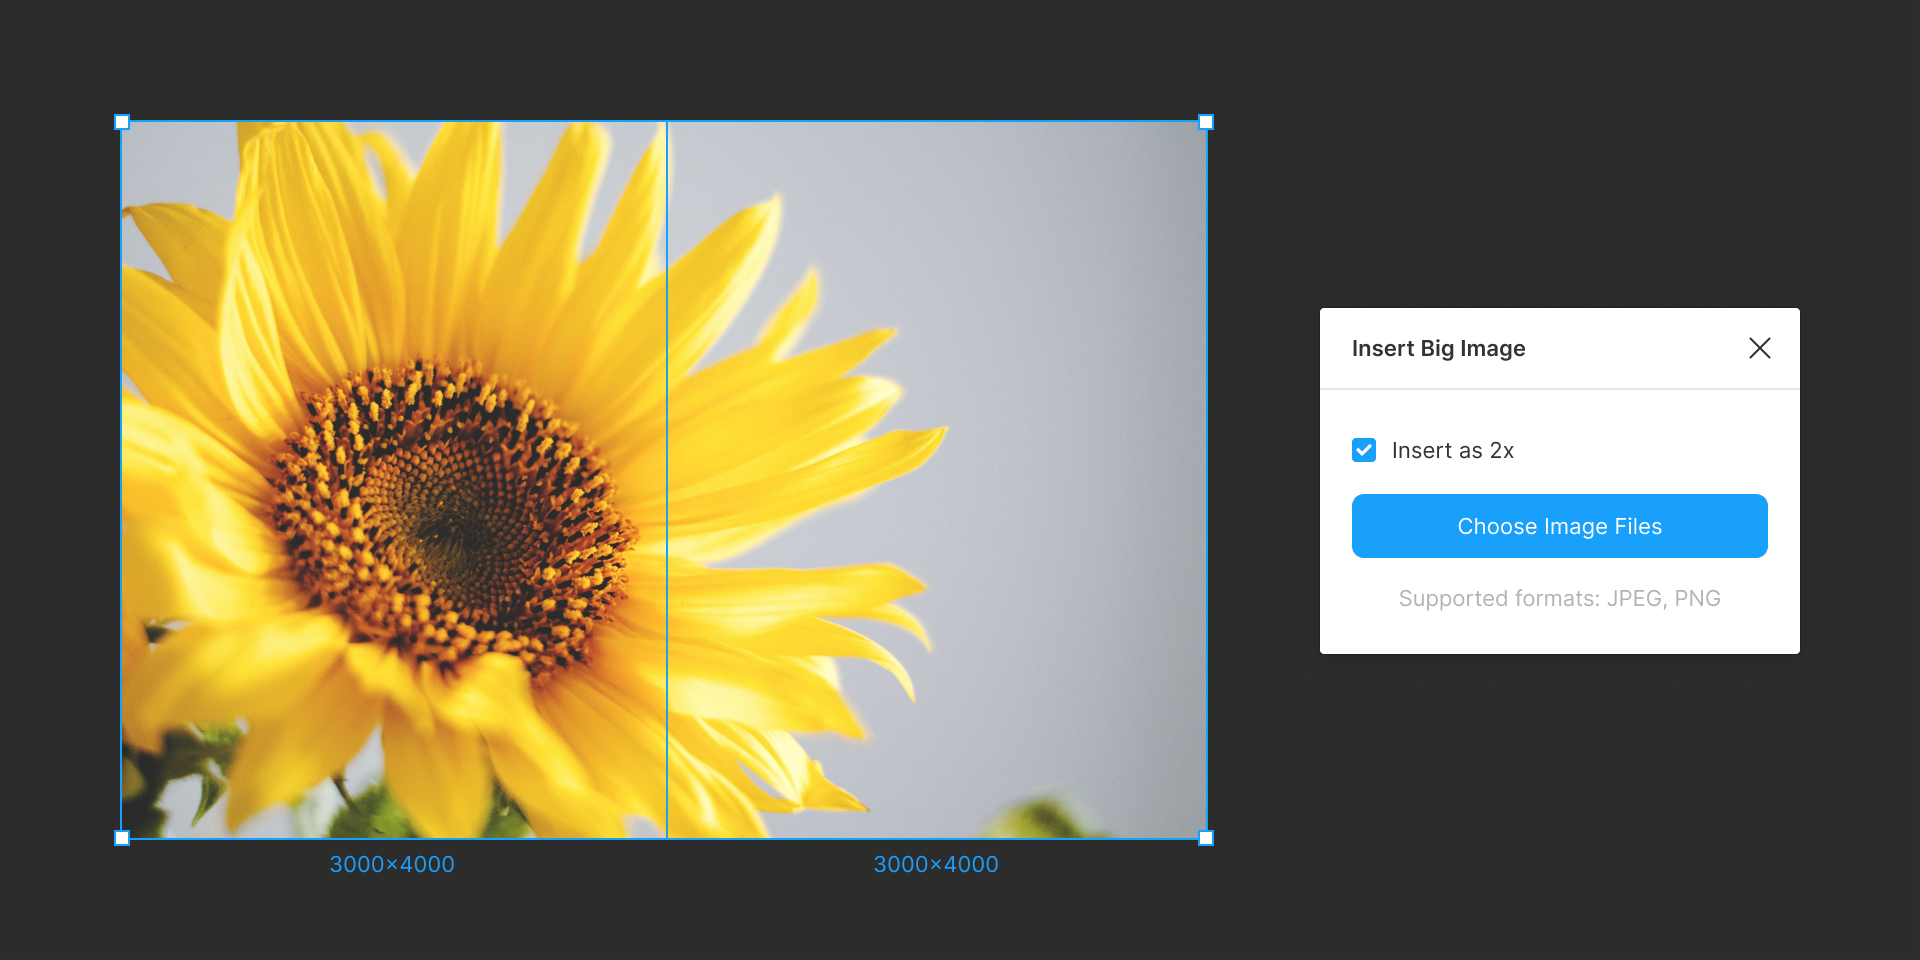
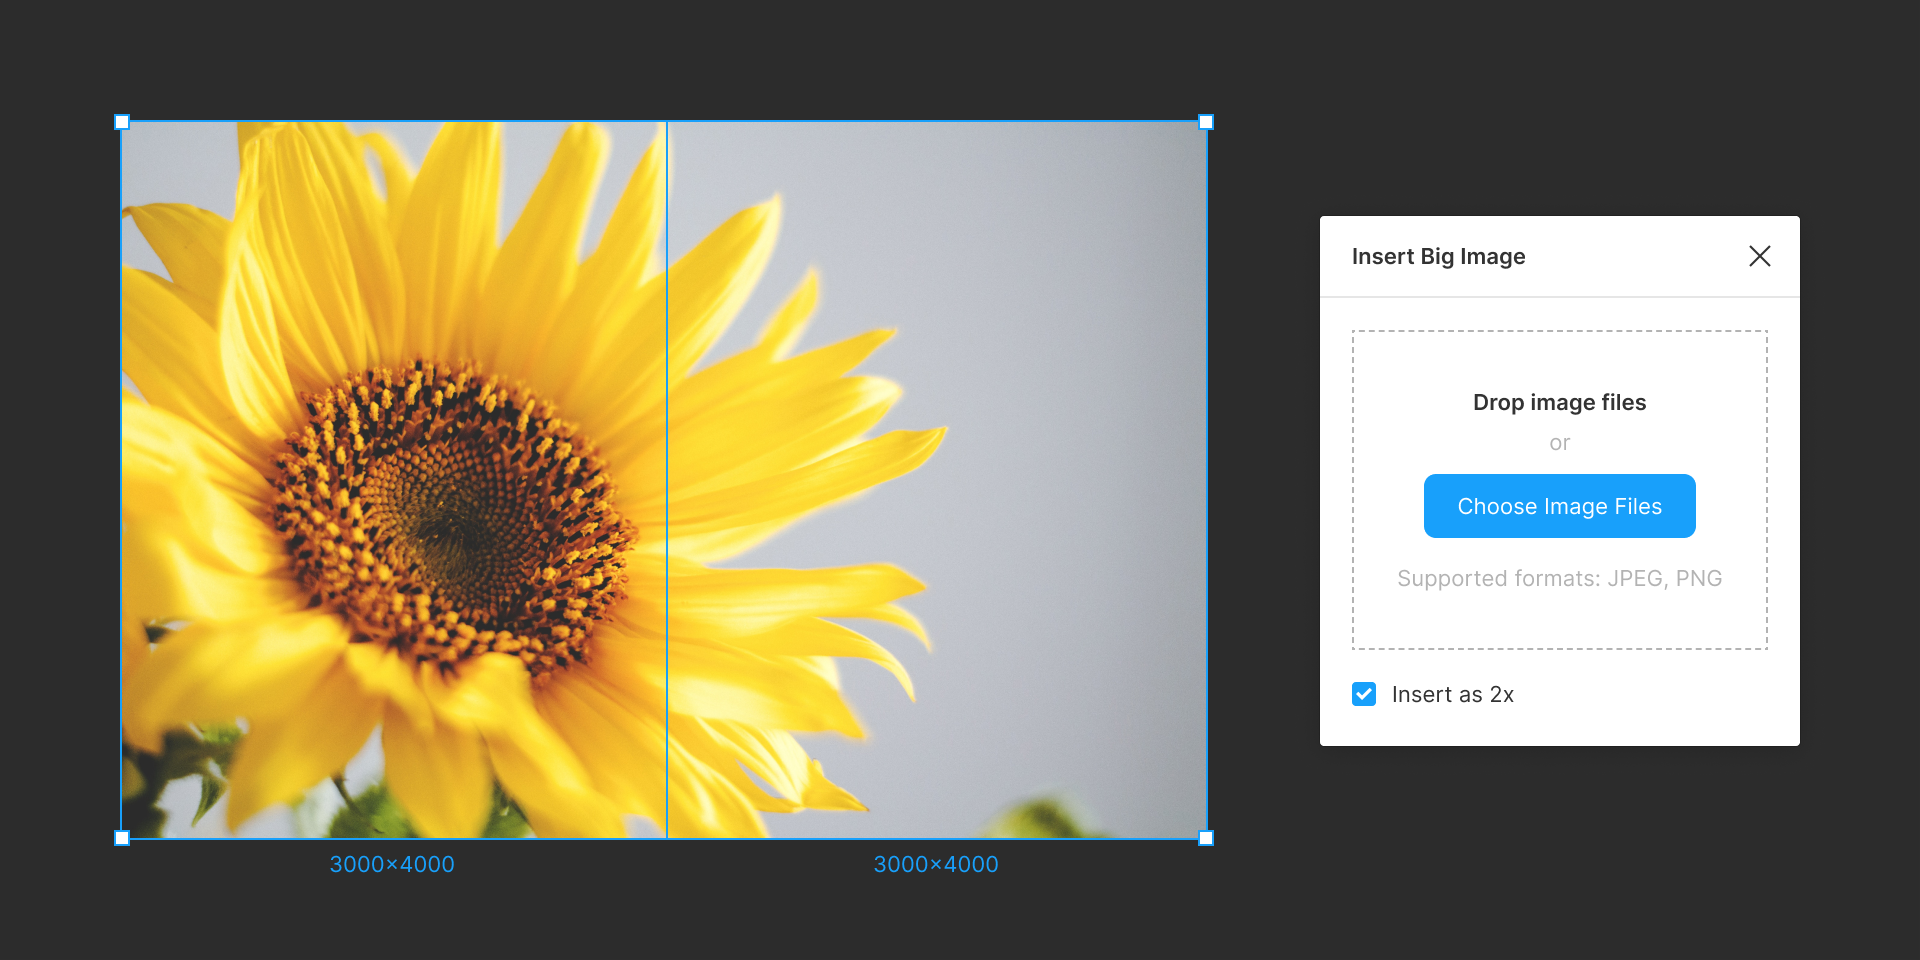
Allow uploading by drag-and-drop

diff --git a/packages/figma-insert-big-image/src/insert-big-image/components/insert-big-image.js b/packages/figma-insert-big-image/src/insert-big-image/components/insert-big-image.js
@@ -2,7 +2,8 @@
 import {
   Checkbox,
   Container,
-  ButtonUploadFile,
+  FileUploadButton,
+  FileUploadDropzone,
   Text,
   VerticalSpace,
   useForm
@@ -10,6 +11,7 @@ import {
 import { triggerEvent } from '@create-figma-plugin/utilities'
 import { h } from 'preact'
 import { useCallback } from 'preact/hooks'
+import { Loading } from './loading/loading'
 import { computeDimensions } from '../utilities/compute-dimensions'
 import { createImageFromFile } from '../utilities/create-image-from-file'
 import { splitImage } from '../utilities/split-image'
@@ -60,9 +62,48 @@ export function InsertBigImage (initialState) {
     },
     [handleChange, insertAs2x]
   )
+  if (isLoading === true) {
+    return (
+      <Loading>
+        {total === 1
+          ? 'Uploading image…'
+          : `Uploading image ${currentIndex} of ${total}…`}
+      </Loading>
+    )
+  }
+  const acceptedFileTypes = ['image/png', 'image/jpeg']
   return (
     <Container space='medium'>
-      <VerticalSpace space='extraLarge' />
+      <VerticalSpace space='medium' />
+      <FileUploadDropzone
+        acceptedFileTypes={acceptedFileTypes}
+        multiple
+        onSelectedFiles={handleSelectedFiles}
+      >
+        <Text align='center' bold>
+          Drop image files here
+        </Text>
+        <VerticalSpace space='small' />
+        <Text align='center' muted>
+          or
+        </Text>
+        <VerticalSpace space='small' />
+        <FileUploadButton
+          acceptedFileTypes={acceptedFileTypes}
+          multiple
+          onSelectedFiles={handleSelectedFiles}
+          loading={isLoading === true}
+          disabled={isLoading === true}
+          focused
+        >
+          Choose Image Files
+        </FileUploadButton>
+        <VerticalSpace space='medium' />
+        <Text align='center' muted>
+          Supported formats: JPEG, PNG
+        </Text>
+      </FileUploadDropzone>
+      <VerticalSpace space='medium' />
       <Checkbox
         name='insertAs2x'
         value={insertAs2x === true}
@@ -71,27 +112,6 @@ export function InsertBigImage (initialState) {
       >
         <Text>Insert as 2x</Text>
       </Checkbox>
-      <VerticalSpace space='medium' />
-      <ButtonUploadFile
-        accept='image/png, image/jpeg'
-        multiple
-        onSelectedFiles={handleSelectedFiles}
-        fullWidth
-        loading={isLoading === true}
-        disabled={isLoading === true}
-        focused
-      >
-        Choose image files
-      </ButtonUploadFile>
-      <VerticalSpace space='medium' />
-      <Text align='center' muted>
-        {total === 0
-          ? 'Supported formats: JPEG, PNG'
-          : total === 1
-          ? 'Processing image…'
-          : `Processing image ${currentIndex} of ${total}…`}
-      </Text>
-      <VerticalSpace space='extraLarge' />
     </Container>
   )
 }

diff --git a/packages/figma-insert-big-image/src/insert-big-image/components/loading/loading.js b/packages/figma-insert-big-image/src/insert-big-image/components/loading/loading.js
@@ -1,0 +1,16 @@
+/** @jsx h */
+import { LoadingIndicator, Text, VerticalSpace } from '@create-figma-plugin/ui'
+import { h } from 'preact'
+import style from './loading.scss'
+
+export function Loading ({ children }) {
+  return (
+    <div class={style.loading}>
+      <LoadingIndicator />
+      <VerticalSpace space='small' />
+      <Text align='center' numeric>
+        {children}
+      </Text>
+    </div>
+  )
+}

diff --git a/packages/figma-insert-big-image/src/insert-big-image/command.js b/packages/figma-insert-big-image/src/insert-big-image/command.js
@@ -57,5 +57,5 @@ export default async function () {
   addEventListener('CLOSE', function () {
     figma.closePlugin()
   })
-  showUI({ width: 240, height: 132 }, settings)
+  showUI({ width: 240, height: 224 }, settings)
 }

diff --git a/packages/figma-insert-big-image/src/insert-big-image/components/loading/loading.scss b/packages/figma-insert-big-image/src/insert-big-image/components/loading/loading.scss
@@ -1,0 +1,6 @@
+@import "@create-figma-plugin/ui/src/scss/constants";
+
+.loading {
+  padding-top: 80px;
+  color: $color-blue;
+}
